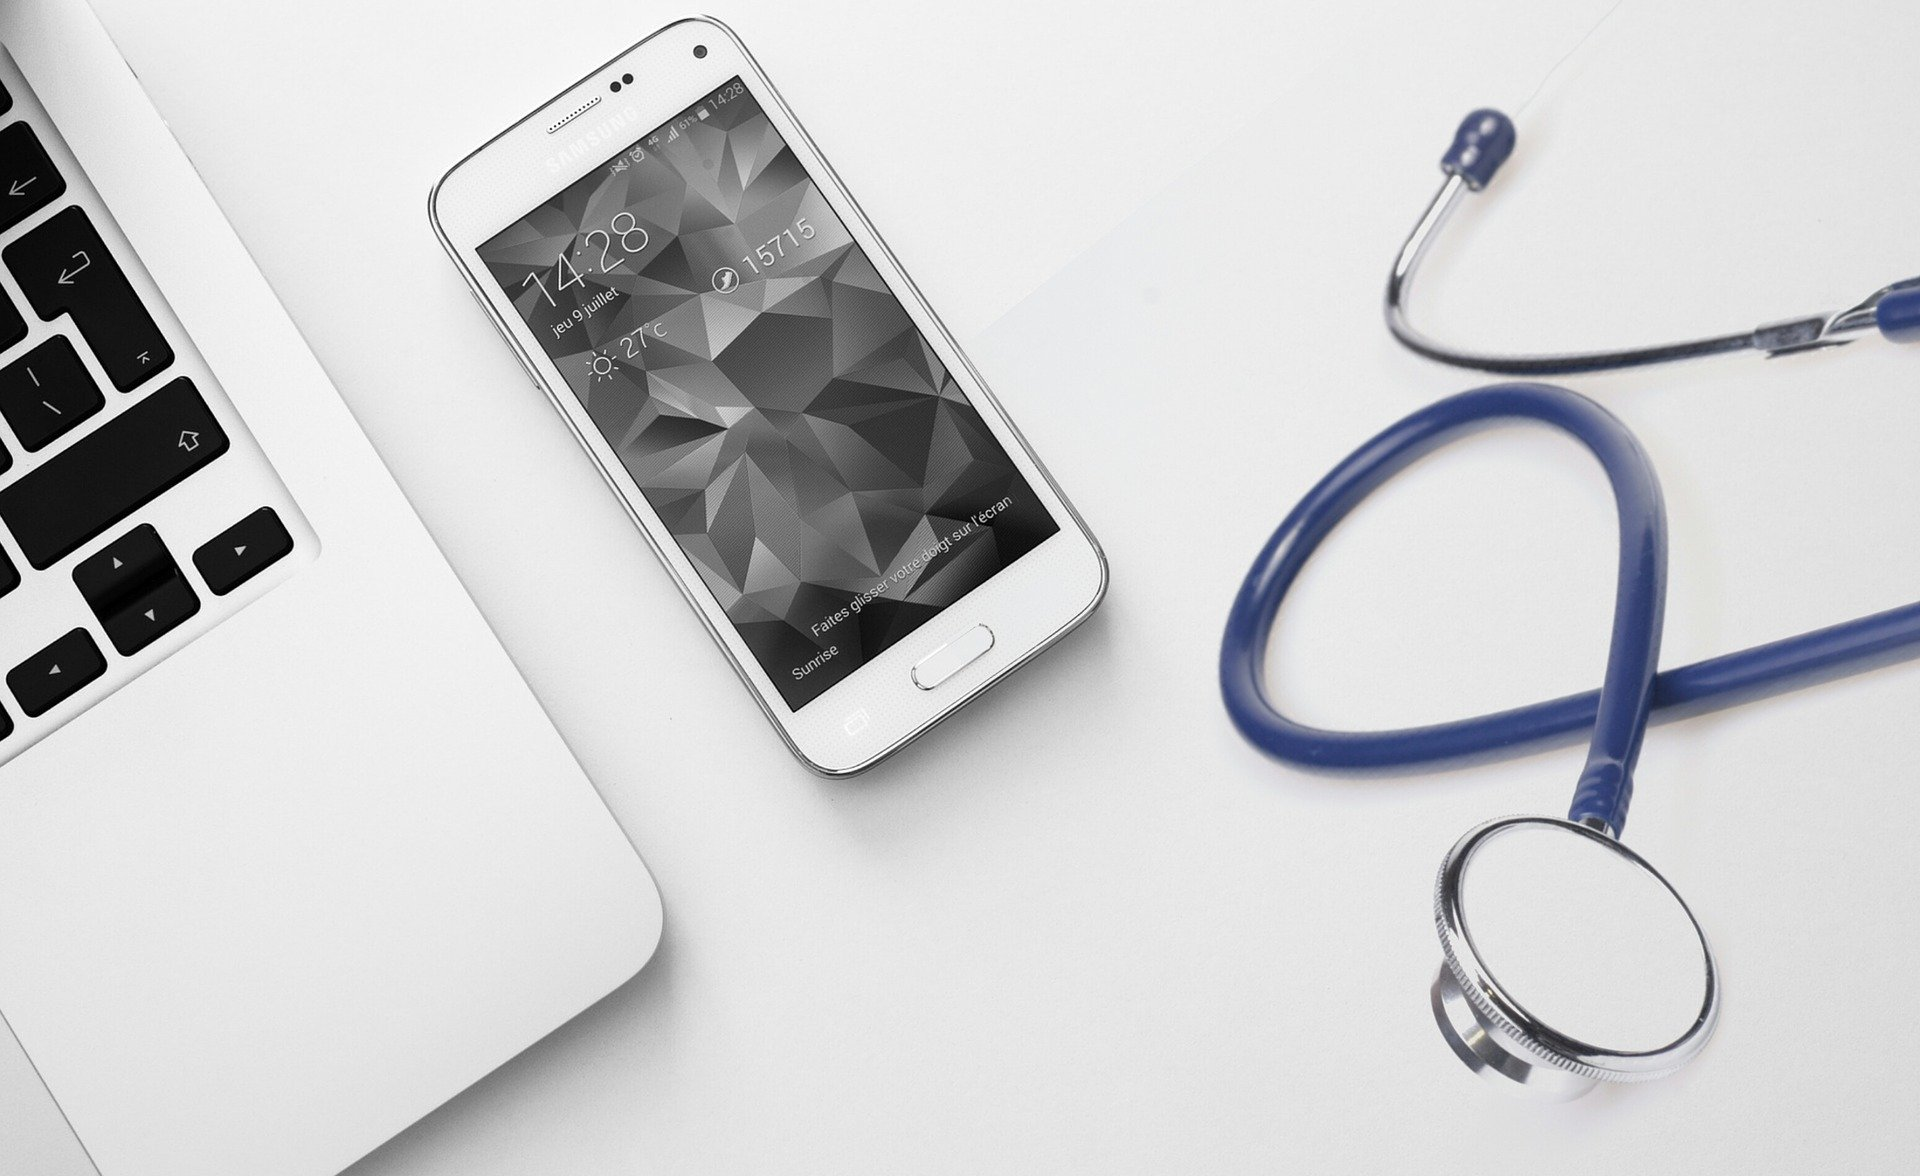
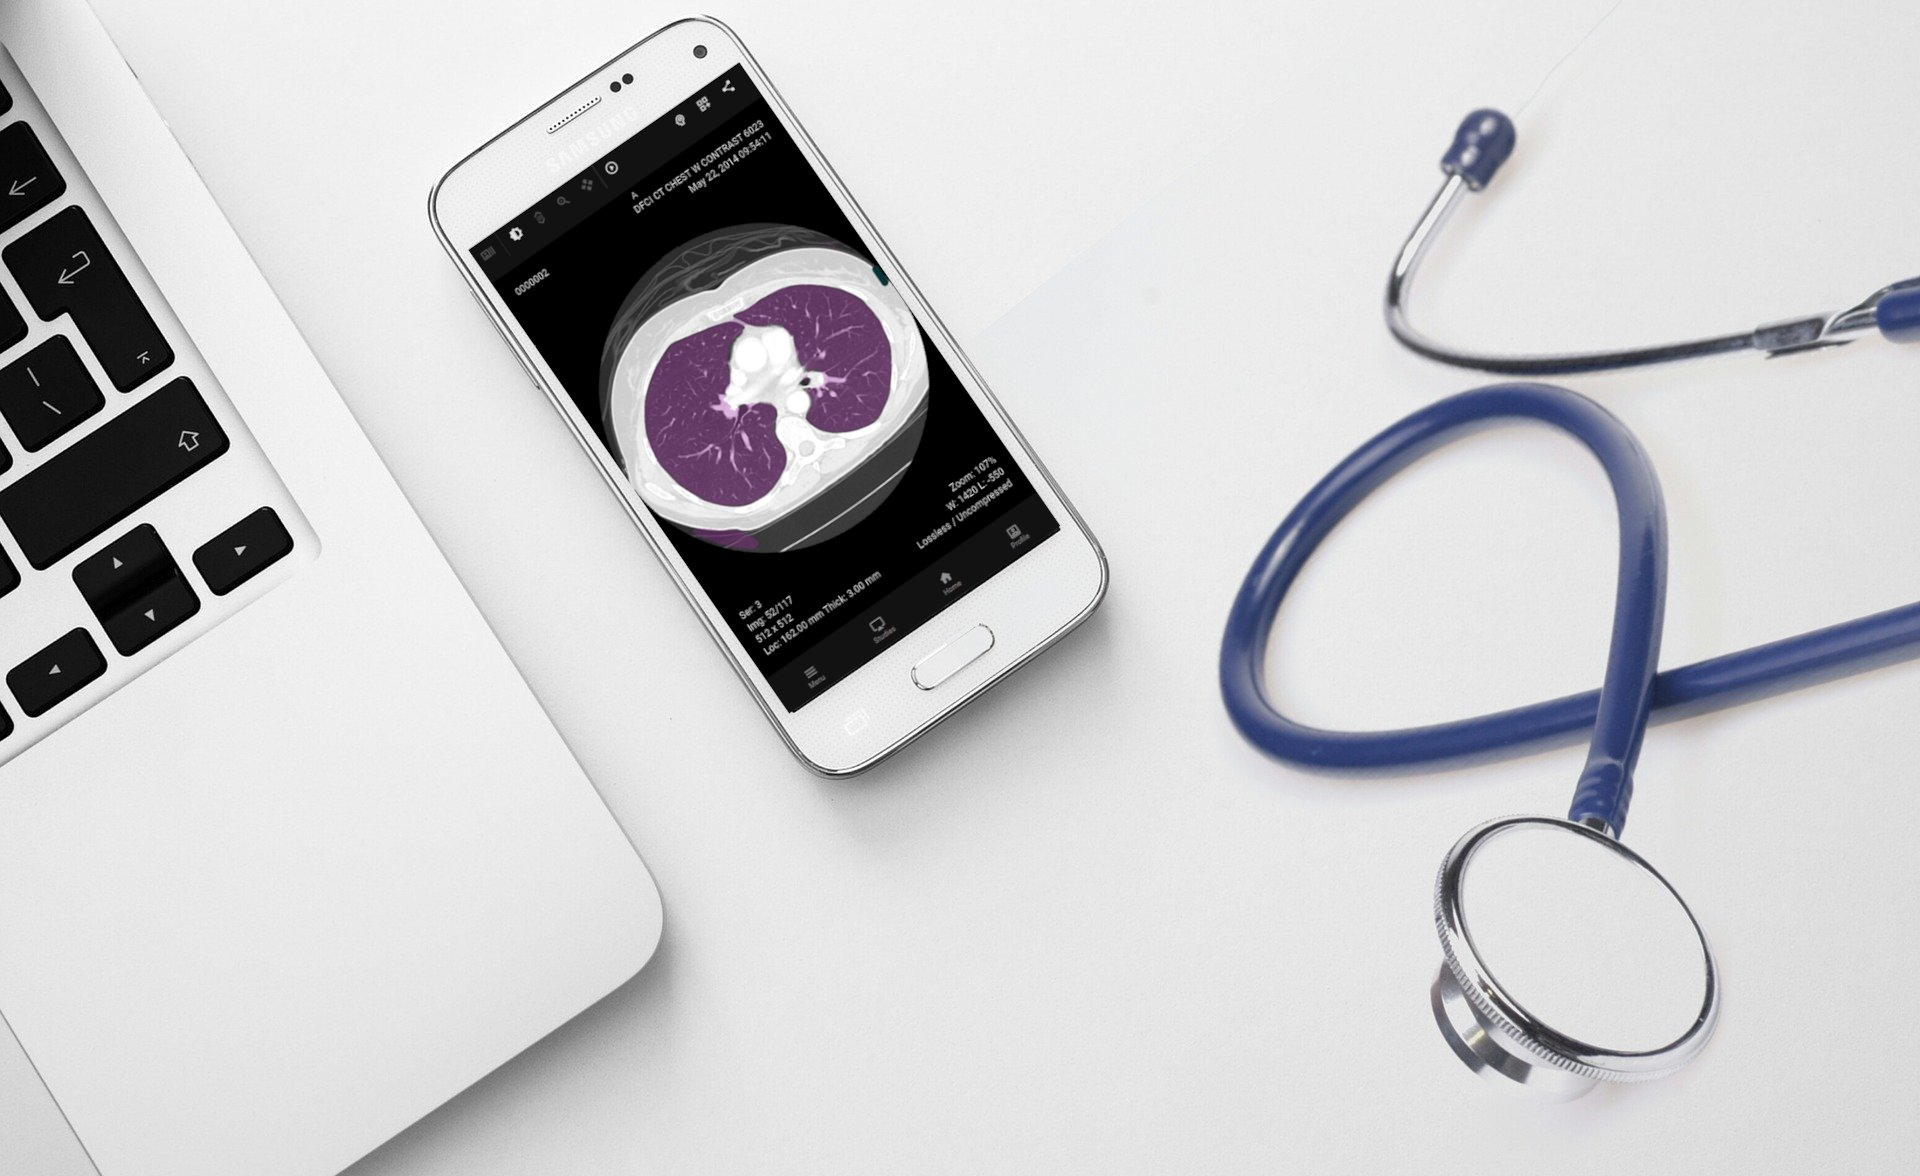
Add architectures Change main images to include screen from the application

Changed region(s): [[0.25, 0.0612, 0.5625, 0.6122]]

diff --git a/content/products/vendors/vendors.md b/content/products/vendors/vendors.md
@@ -13,4 +13,6 @@ description: Easily integrate different AI solutions into your clinic. You are n
 
 In recent years, many research groups and start-ups created a variety of AI models, but integrating and maintaining multiple single-task solutions does not scale well. It puts a strain on hospitals’ IT and requires radiologists to get used to new interfaces every time a new AI model is integrated. At zhiva, we know that this is not sustainable in the long term, and our platform solves this. We provide a structural framework for hospitals to expand the range of artificial intelligence software they use.
 
+![architecture diagram](./basic_architecture.png)
+
 Zhiva enables your hospital to easily integrate groundbreaking AI solutions into your clinical workflow. We consolidate multiple AI solutions into a single, easy-to-use platform. Our medical image viewer can be easily extended with any third-party AI model, and we offer a suite of these solutions out-of-the-box for hospitals. AI systems available within our platform solve many tasks: they can predict, detect and classify. Zhiva is also easily customizable and can be tailored to specific clinical needs. Our platform can be deployed either as a cloud service or locally, depending on your hospital's policies.
